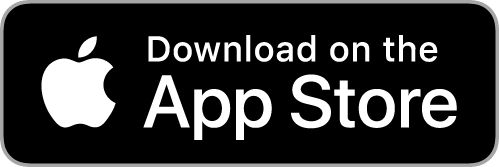
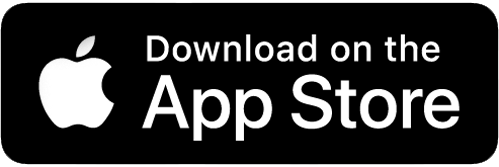
see edits on doc or view code changes

diff --git a/index.html b/index.html
@@ -18,6 +18,7 @@
   <body>
     <div class='container-fluid first scroll-1 main'>
       <div class='row titlePlus'>
+        <h6 class='hdot hide-sm'>H.</h6>
         <div class='col-md-1 hide-sm'>
 
         </div>
@@ -158,7 +159,7 @@
                 <h1 class='font-weight-bold brandsTitle'>Brands</h1>
                 <h5 class='font-weight-light brandsText mt-3 hide-sm'>Select your favorite brands such as Supreme, Bape, Palace and much more</h5>
                 <br />
-                <img class='img-fluid brandsAppStoreIcon hide-sm' src='/img/appstore.png' />
+                <img class='img-fluid brandsAppStoreIcon hide-sm w-25 ml-3' src='/img/appstore.png' />
                 <br />
                 <div class='col w-100 display-sm'>
 
@@ -306,7 +307,7 @@
     <br />
     <div class='container-fluid fourth scroll-4 main hide-sm'>
       <div class='row '>
-        <div class='col-md-5'>
+        <div class='col-lg-4 col-md-4 exclusive-left'>
           <div class='exclusive-cont'>
             <h5 class='text-right text-white exclusive-title mTop-lg'>Curated Collections <img src='https://i.imgur.com/wqmuhHw.png' class='exclusive-icon mt-1 icon-w' /></h5>
             <h6 class='font-weight-light text-right text-white exclusive-text-left'>Browse our hand picked collection of labels ranging from streetwear to high fashion.</h6>
@@ -315,7 +316,7 @@
           <br />
           <div class='exclusive-cont'>
             <h5 class='text-right text-white exclusive-title'>Exclusive Access <img src='https://i.imgur.com/WX7WxWP.png' class='exclusive-icon icon-h' /></h5>
-            <h6 class='font-weight-light text-right text-white exclusive-text-left'>Only approved sellers who pass our approval process are allowed to list items.</h6>
+            <h6 class='font-we  ight-light text-right text-white exclusive-text-left'>Only approved sellers who pass our approval process are allowed to list items.</h6>
           </div>
           <br />
           <div class='exclusive-cont'>
@@ -323,12 +324,12 @@
             <h6 class='font-weight-light text-right text-white exclusive-text-left'>All transactions are 100% secure through SSL encryption and processed through Stripe.</h6>
           </div>
         </div>
-        <div class='col-md-2'>
+        <div class='col-lg-4 col-md-4'>
           <h1 class='text-white text-center font-weight-bold exclusiveTitle'>Exclusive</h1>
           <br />
-          <img src='https://i.imgur.com/gmbIdVN.png' class='img-fluid ' />
+          <img src='https://i.imgur.com/gmbIdVN.png' class='img-fluid exclusiveImg' />
         </div>
-        <div class='col-md-5'>
+        <div class='col-lg-4 col-md-4 exclusive-right'>
           <div class='exclusive-cont'>
             <img src='https://i.imgur.com/Yfyo6lQ.png' class='exclusive-icon-left mt-1 icon-h' />
             <h5 class='text-left text-white mTop-lg exclusive-title-right'>Premium Experience</h5>
@@ -397,14 +398,13 @@
 
     <div class="container-fluid sixth scroll-6 notiColor main h-100 text-dark">
       <div class="row h-100 justify-content-center align-items-center">
-        <div class="col-md-4 notifyDiv">
+        <div class="col-lg-5 col-md-6 col-sm-8 notifyDiv">
           <h1 class='font-weight-bold notiText text-center'>GET NOTIFIED.</h1>
           <br />
-          <div class="input-group">
-            <input type="email" class="form-control" placeholder="Email Address" aria-label="Recipient's username" aria-describedby="basic-addon2">
+          <div class="input-group notifyGroup">
+            <input type="email" class="form-control notifyInput" placeholder="Email Address" aria-label="Recipient's username" aria-describedby="basic-addon2">
             <div class="input-group-append">
-
-              <button class="btn btn-outline-secondary notifySubmit font-weight-bold" type="button">Submit</button>
+              <button class="btn btn-light notifySubmit font-weight-bold" type="button">Submit</button>
             </div>
           </div>
           <br />
@@ -413,28 +413,37 @@
           </p>
         </div>
 
-        <div class="col-md-4 contactDiv">
+        <div class="col-lg-4 col-md-6 col-sm-8 contactDiv">
           <h1 class='font-weight-bold notiText text-left'>We're here to help.</h1>
           <br />
           <h6 class='text-muted'>Full Name</h6>
-          <input type="text" class="form-control" placeholder="Enter your full name" aria-label="Recipient's username" aria-describedby="basic-addon2">
+          <input type="text" class="form-control contactInput ml-2" placeholder="Enter your full name" aria-label="Recipient's username" aria-describedby="basic-addon2">
           <br />
           <h6 class='text-muted'>Email</h6>
-          <input type="email" class="form-control" placeholder="example@mail.com" aria-label="Recipient's username" aria-describedby="basic-addon2">
+          <input type="email" class="form-control contactInput ml-2" placeholder="example@mail.com" aria-label="Recipient's username" aria-describedby="basic-addon2">
           <br />
           <h6 class='text-muted'>Message</h6>
-          <textarea class="form-control" name="body" form="contactForm" rows="3" placehold></textarea>
+          <textarea class="form-control contactInput ml-2" name="body" form="contactForm" rows="3" placeholder="What's on your mind?"></textarea>
           <br />
-          <input type='submit' class='btn btn-outline-dark text-center' value='Send' />
+          <div class='row'>
+            <div class='col-md-4 col-4'>
+            </div>
+            <div class='col-md-4 col-4'>
+              <input type='submit' class='btn btn-outline-dark btn-block contactSubmit' value='SUBMIT' />
+            </div>
+            <div class='col-md-4 col-4'>
+            </div>
+          </div>
+
         </div>
 
-        <div class="col-md-5 requestDiv text-white">
+        <div class="col-lg-5 col-md-6 col-sm-8 requestDiv text-white">
           <h1 class='font-weight-bold notiText text-center'>REQUEST TO SELL.</h1>
           <br />
           <div class="input-group">
-            <input type="email" class="form-control" placeholder="Email Address" aria-label="Recipient's username" aria-describedby="basic-addon2">
+            <input type="email" class="form-control notifyInput" placeholder="Email Address" aria-label="Recipient's username" aria-describedby="basic-addon2">
             <div class="input-group-append">
-              <button class="btn btn-outline-light notifySubmit" type="button">Submit</button>
+              <button class="btn btn-light notifySubmit font-weight-bold" type="button">Submit</button>
             </div>
           </div>
           <br />
@@ -448,7 +457,7 @@
     <div class='container-fluid footer notiColor hide-sm'>
       <div class='row'>
         <div class='col-md-4 col-4 text-left'>
-          <h6 class='font-weight-normal footerText'>&copy; Hypremium 2018</h6>
+          <h6 class='font-weight-normal footerText copyright'>&copy; 2018 <span class='logospace'>Hypremium</span></h6>
 
         </div>
         <div class='col-md-4 col-4 text-center'>
@@ -468,7 +477,6 @@
     <div class='container-fluid footer notiColor display-sm'>
       <h6 class='font-weight-normal footerText text-center contactBtn'>Contact us</h6>
 
-      <br />
       <div class='row'>
         <div class='col-1'>
 
@@ -483,7 +491,7 @@
 
       <div class='row'>
         <div class='col-6 text-left'>
-          <h6 class='font-weight-normal footerText'>&copy; Hypremium 2018</h6>
+          <h6 class='font-weight-normal footerText copyright'>&copy; 2018 Hypremium</h6>
         </div>
         <div class='col-6 text-right'>
           <h6 class='footerText'>
@@ -498,8 +506,6 @@
 
     </div>
   </body>
-  <script src='/js/ease.js'></script>
-  <script src='/js/scroll.js'></script>
   <script src='/js/script.js'></script>
 
 </html>

diff --git a/css/style.css b/css/style.css
@@ -129,6 +129,8 @@ body {
   display: none;
   background-color: #2b2a2a;
   font-family: 'Avenir';
+  overflow-x: hidden;
+  overflow-y: auto;
 }
 
 
@@ -218,6 +220,12 @@ body {
   left: 0;
 }
 
+.exclusiveImg {
+  margin: auto;
+  display: block;
+  width: 60%!important;
+}
+
 .icon-w {
   width: 1em;
 }
@@ -250,6 +258,52 @@ body {
 
 }
 
+.notifySubmit {
+  background-color: #fff;
+  border: 1px solid #fff;
+  border-top-right-radius: .5rem;
+  border-bottom-right-radius: .5rem;
+  font-size: 0.75rem;
+  height: 7vh;
+  padding-right: 1.5rem;
+}
+
+.notifySubmit:focus {
+  box-shadow: none!important;
+}
+
+.contactSubmit {
+  font-size: 0.75rem;
+  letter-spacing: 1px;
+  border: 0.1rem solid #000;
+  border-radius: 0.3rem;
+}
+
+textarea {
+  resize: none;
+}
+
+.notifyInput {
+  border: 0;
+  border-top-left-radius: .5rem;
+  border-bottom-left-radius: .5rem;
+  height: 7vh;
+  padding-left: 1.5rem;
+}
+
+.notifyInput::placeholder {
+  color: #AFAFAF;
+}
+
+.notifyGroup {
+  filter: drop-shadow(0px 0px 4px #b2b2b2)
+}
+
+.contactInput, .contactInput:focus {
+  border: 0;
+  background-color: #f2f2f2;
+}
+
 .brandsBg {
   height: 100%;
   border-top-right-radius: 1vh;
@@ -276,6 +330,24 @@ body {
   font-size: 10vh;
   font-family: Helvetica Neue,Helvetica,Arial,sans-serif;
   font-weight: 700!important;
+  letter-spacing: -0.03em;
+}
+
+.hdot {
+  position: absolute;
+  top: 1vh;
+  left: 1vw;
+  font-size: 5vh;
+  font-family: Helvetica Neue,Helvetica,Arial,sans-serif;
+  font-weight: 700!important;
+}
+
+.copyright {
+  font-family: Helvetica Neue,Helvetica,Arial,sans-serif;
+  font-weight: 700!important;
+}
+
+.logospace {
   letter-spacing: -0.03em;
 }
 
@@ -396,6 +468,19 @@ body {
     margin-top: 25vh;
   }
 
+  .exclusive-cont {
+    transform: scale(0.8);
+  }
+
+  .exclusive-left {
+    margin-right: -8vw;
+    margin-left: 8vw;
+  }
+
+  .exclusive-right {
+    margin-left: -8vw;
+  }
+
   .personalizeTitle {
     font-size: 7vh;
   }
@@ -438,6 +523,8 @@ body {
     font-size: 10vh;
     margin-top: 2vh;
   }
+
+
 
   .icon-diamond {
     height: 0.75em;
